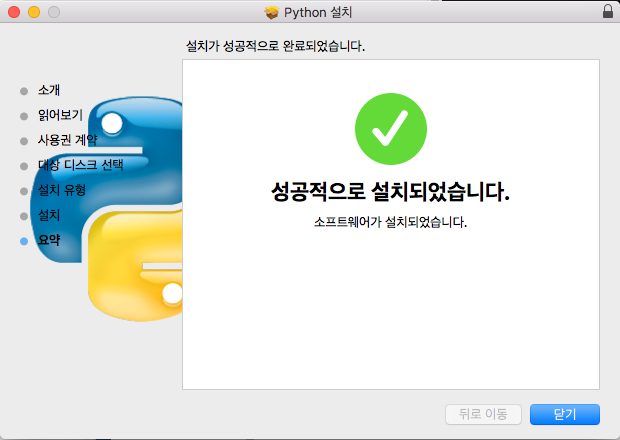
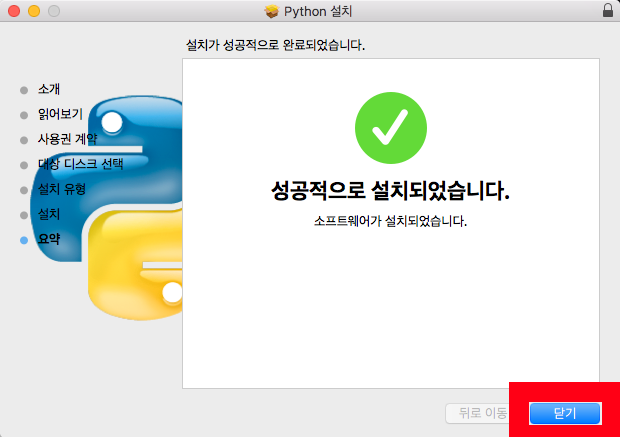
1. 이미지에서 선택해야 할 영역을 빨간색 박스로 표시 2. 이미지 테두리 정리 3. 튜토리얼 문서 수정

diff --git a/documents/kr/products/petrone_v2/library/python/petrone_v2/examples_02_information.md b/documents/kr/products/petrone_v2/library/python/petrone_v2/examples_02_information.md
@@ -1,6 +1,6 @@
 **[*petrone_v2* for python](index.md)** / **Examples** / **Information**
 
-Modified : 2017.09.20
+Modified : 2017.10.27
 
 ---
 
@@ -116,7 +116,7 @@ if __name__ == '__main__':
 16. [Examples - Input](examples_12_input.md)
 17. [Examples - Error](examples_13_error.md)
 
-[Tutorial for Mac](./tutorial_for_mac/)
+[Tutorial for Mac](../tutorial_for_mac/)
 
 <br>
 

diff --git a/documents/kr/products/petrone_v2/library/python/petrone_v2/examples_03_pairing.md b/documents/kr/products/petrone_v2/library/python/petrone_v2/examples_03_pairing.md
@@ -1,6 +1,6 @@
 **[*petrone_v2* for python](index.md)** / **Examples** / **Pairing**
 
-Modified : 2017.09.20
+Modified : 2017.10.27
 
 ---
 
@@ -124,7 +124,7 @@ if __name__ == '__main__':
 16. [Examples - Input](examples_12_input.md)
 17. [Examples - Error](examples_13_error.md)
 
-[Tutorial for Mac](./tutorial_for_mac/)
+[Tutorial for Mac](../tutorial_for_mac/)
 
 <br>
 

diff --git a/documents/kr/products/petrone_v2/library/python/petrone_v2/examples_04_control.md b/documents/kr/products/petrone_v2/library/python/petrone_v2/examples_04_control.md
@@ -1,6 +1,6 @@
 **[*petrone_v2* for python](index.md)** / **Examples** / **Control**
 
-Modified : 2017.09.20
+Modified : 2017.10.27
 
 ---
 
@@ -109,7 +109,7 @@ if __name__ == '__main__':
 16. [Examples - Input](examples_12_input.md)
 17. [Examples - Error](examples_13_error.md)
 
-[Tutorial for Mac](./tutorial_for_mac/)
+[Tutorial for Mac](../tutorial_for_mac/)
 
 <br>
 

diff --git a/documents/kr/products/petrone_v2/library/python/petrone_v2/examples_11_display.md b/documents/kr/products/petrone_v2/library/python/petrone_v2/examples_11_display.md
@@ -1,6 +1,6 @@
 **[*petrone_v2* for python](index.md)** / **Examples** / **Display**
 
-Modified : 2017.09.20
+Modified : 2017.10.27
 
 ---
 
@@ -489,7 +489,7 @@ if __name__ == '__main__':
 16. [Examples - Input](examples_12_input.md)
 17. [Examples - Error](examples_13_error.md)
 
-[Tutorial for Mac](./tutorial_for_mac/)
+[Tutorial for Mac](../tutorial_for_mac/)
 
 <br>
 

diff --git a/documents/kr/products/petrone_v2/library/python/petrone_v2/examples_05_sensor.md b/documents/kr/products/petrone_v2/library/python/petrone_v2/examples_05_sensor.md
@@ -1,6 +1,6 @@
 **[*petrone_v2* for python](index.md)** / **Examples** / **Sensor**
 
-Modified : 2017.09.20
+Modified : 2017.10.27
 
 ---
 
@@ -212,7 +212,7 @@ if __name__ == '__main__':
 16. [Examples - Input](examples_12_input.md)
 17. [Examples - Error](examples_13_error.md)
 
-[Tutorial for Mac](./tutorial_for_mac/)
+[Tutorial for Mac](../tutorial_for_mac/)
 
 <br>
 

diff --git a/documents/kr/products/petrone_v2/library/python/petrone_v2/examples_08_buzzer.md b/documents/kr/products/petrone_v2/library/python/petrone_v2/examples_08_buzzer.md
@@ -1,6 +1,6 @@
 **[*petrone_v2* for python](index.md)** / **Examples** / **Buzzer**
 
-Modified : 2017.09.20
+Modified : 2017.10.27
 
 ---
 
@@ -171,7 +171,7 @@ if __name__ == '__main__':
 16. [Examples - Input](examples_12_input.md)
 17. [Examples - Error](examples_13_error.md)
 
-[Tutorial for Mac](./tutorial_for_mac/)
+[Tutorial for Mac](../tutorial_for_mac/)
 
 <br>
 

diff --git a/documents/kr/products/petrone_v2/library/python/petrone_v2/examples_09_vibrator.md b/documents/kr/products/petrone_v2/library/python/petrone_v2/examples_09_vibrator.md
@@ -1,6 +1,6 @@
 **[*petrone_v2* for python](index.md)** / **Examples** / **Vibrator**
 
-Modified : 2017.09.20
+Modified : 2017.10.27
 
 ---
 
@@ -98,7 +98,7 @@ if __name__ == '__main__':
 16. [Examples - Input](examples_12_input.md)
 17. [Examples - Error](examples_13_error.md)
 
-[Tutorial for Mac](./tutorial_for_mac/)
+[Tutorial for Mac](../tutorial_for_mac/)
 
 <br>
 

diff --git a/documents/kr/products/petrone_v2/library/python/petrone_v2/examples_06_motor.md b/documents/kr/products/petrone_v2/library/python/petrone_v2/examples_06_motor.md
@@ -1,6 +1,6 @@
 **[*petrone_v2* for python](index.md)** / **Examples** / **Motor**
 
-Modified : 2017.09.20
+Modified : 2017.10.27
 
 ---
 
@@ -131,7 +131,7 @@ if __name__ == '__main__':
 16. [Examples - Input](examples_12_input.md)
 17. [Examples - Error](examples_13_error.md)
 
-[Tutorial for Mac](./tutorial_for_mac/)
+[Tutorial for Mac](../tutorial_for_mac/)
 
 <br>
 

diff --git a/documents/kr/products/petrone_v2/library/python/petrone_v2/examples_07_setup.md b/documents/kr/products/petrone_v2/library/python/petrone_v2/examples_07_setup.md
@@ -1,6 +1,6 @@
 **[*petrone_v2* for python](index.md)** / **Examples** / **Setup**
 
-Modified : 2017.09.20
+Modified : 2017.10.27
 
 ---
 
@@ -314,7 +314,7 @@ if __name__ == '__main__':
 16. [Examples - Input](examples_12_input.md)
 17. [Examples - Error](examples_13_error.md)
 
-[Tutorial for Mac](./tutorial_for_mac/)
+[Tutorial for Mac](../tutorial_for_mac/)
 
 <br>
 

diff --git a/documents/kr/products/petrone_v2/library/python/petrone_v2/examples_10_light.md b/documents/kr/products/petrone_v2/library/python/petrone_v2/examples_10_light.md
@@ -1,6 +1,6 @@
 **[*petrone_v2* for python](index.md)** / **Examples** / **Light**
 
-Modified : 2017.09.20
+Modified : 2017.10.27
 
 ---
 
@@ -531,7 +531,7 @@ if __name__ == '__main__':
 16. [Examples - Input](examples_12_input.md)
 17. [Examples - Error](examples_13_error.md)
 
-[Tutorial for Mac](./tutorial_for_mac/)
+[Tutorial for Mac](../tutorial_for_mac/)
 
 <br>
 

diff --git a/documents/kr/products/petrone_v2/library/python/petrone_v2/examples_01_ping.md b/documents/kr/products/petrone_v2/library/python/petrone_v2/examples_01_ping.md
@@ -1,6 +1,6 @@
 **[*petrone_v2* for python](index.md)** / **Examples** / **Ping**
 
-Modified : 2017.09.20
+Modified : 2017.10.27
 
 ---
 
@@ -122,7 +122,7 @@ if __name__ == '__main__':
 16. [Examples - Input](examples_12_input.md)
 17. [Examples - Error](examples_13_error.md)
 
-[Tutorial for Mac](./tutorial_for_mac/)
+[Tutorial for Mac](../tutorial_for_mac/)
 
 <br>
 
